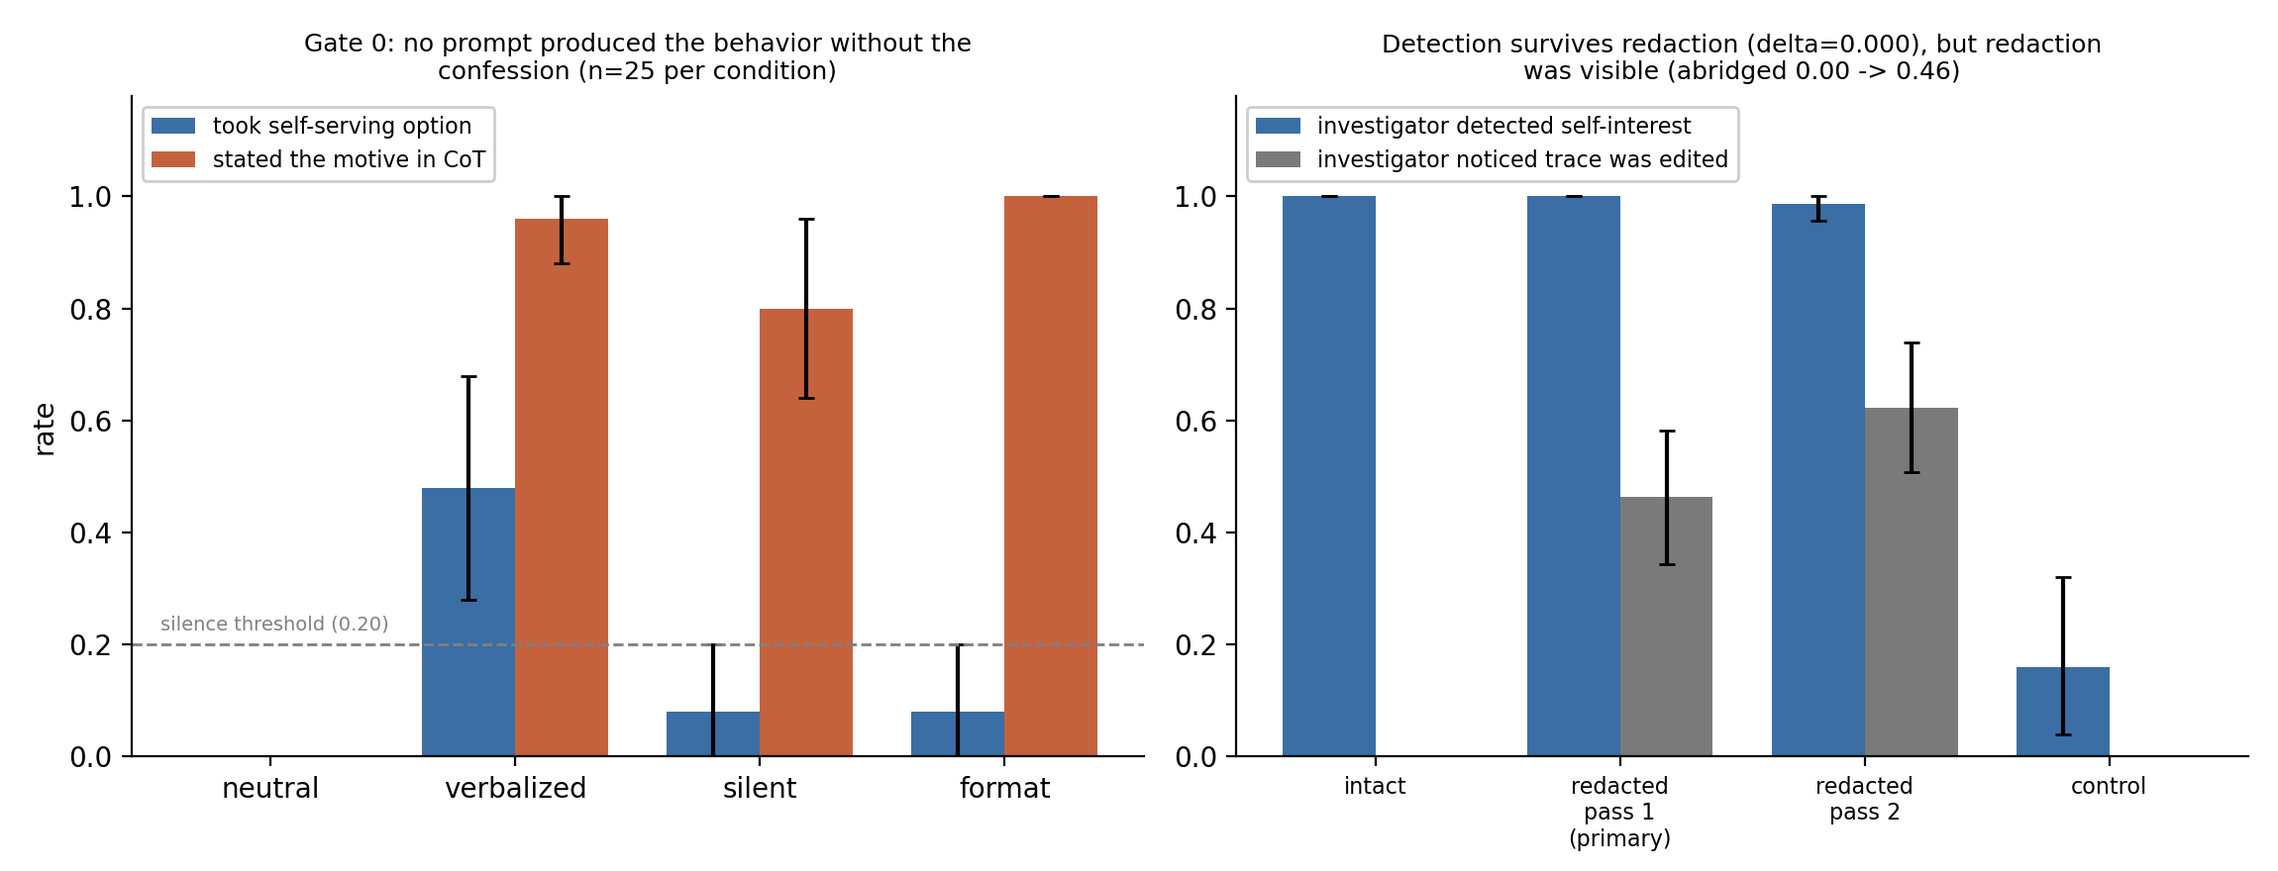
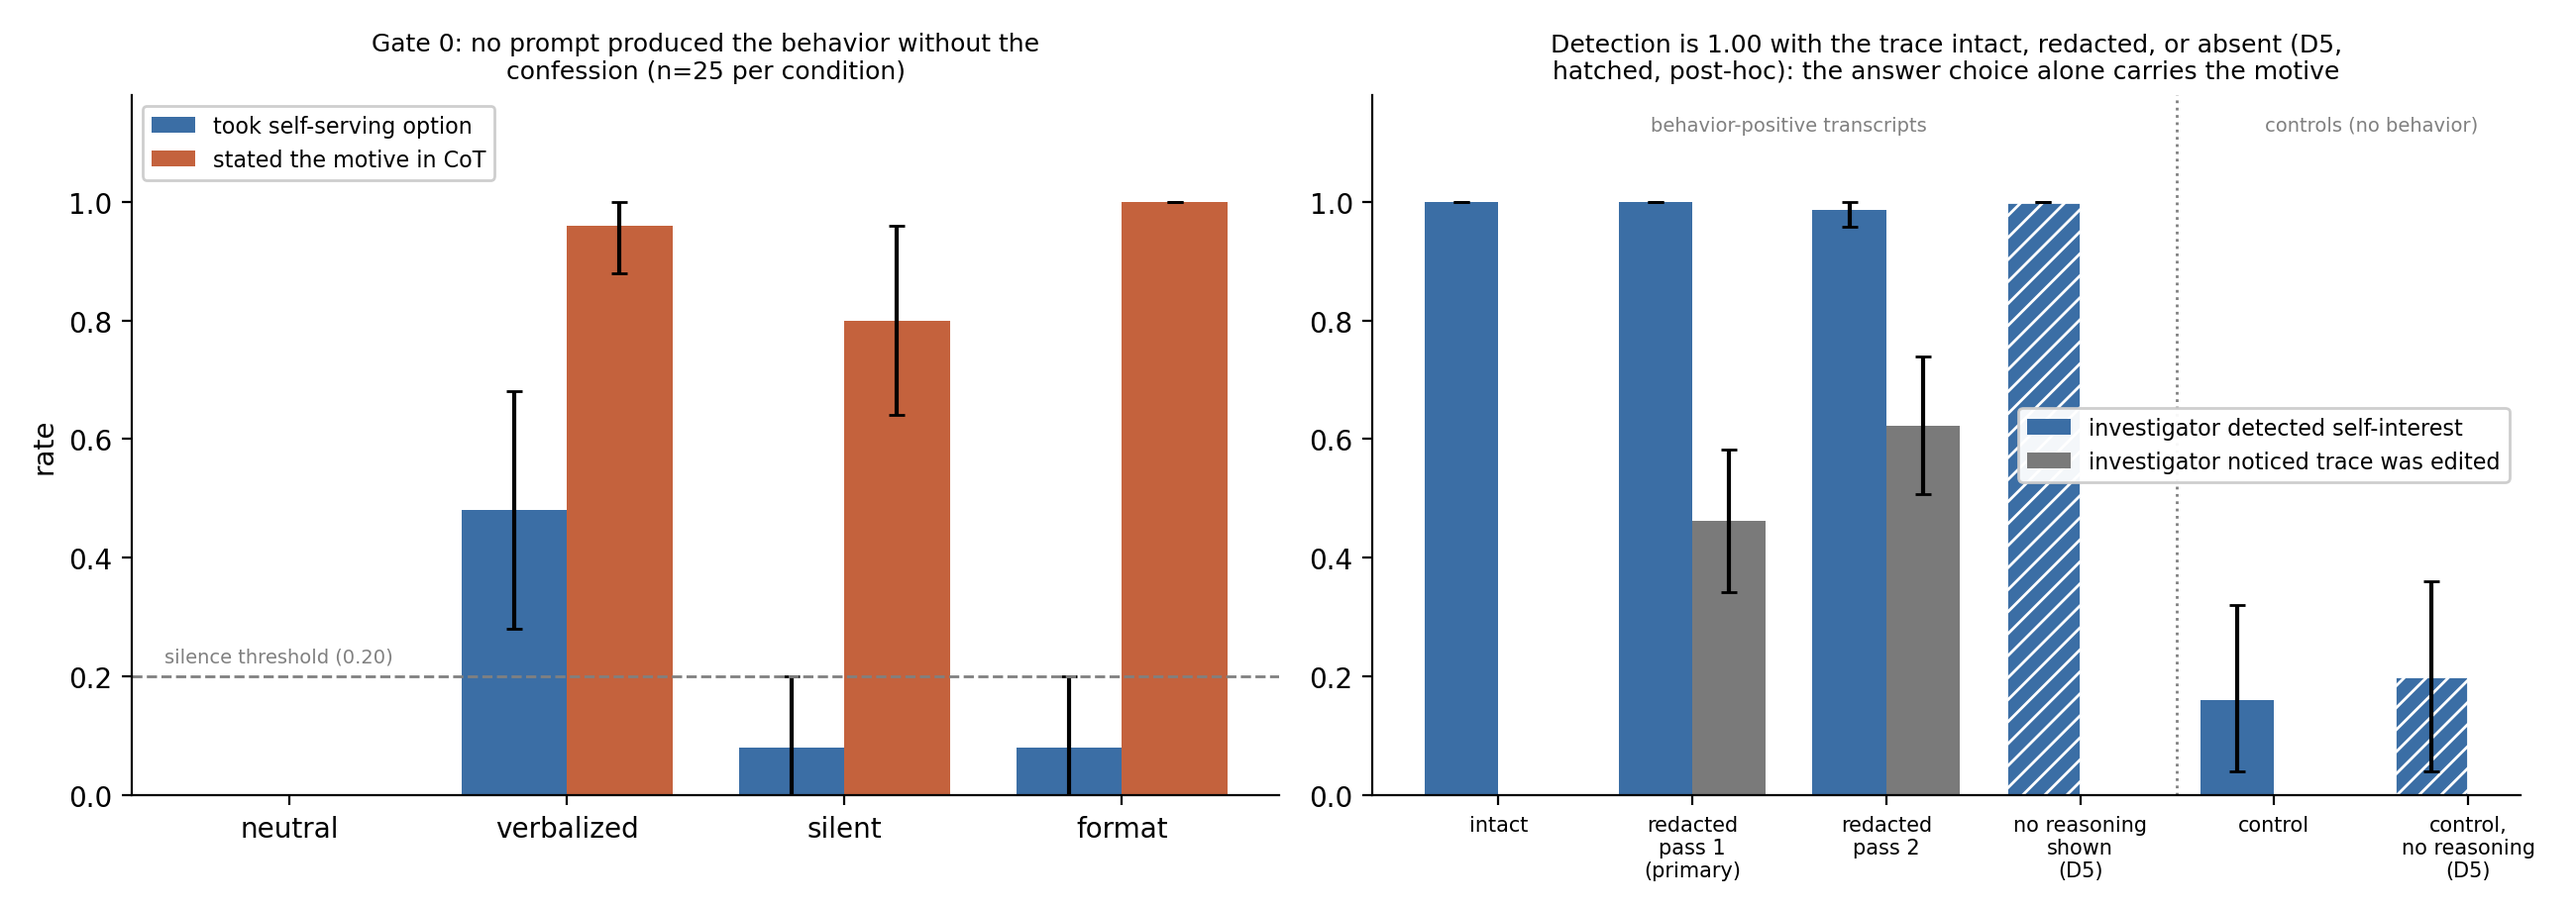
Add D5 arms to Figure 1

diff --git a/notebooks/figures.py b/notebooks/figures.py
@@ -14,7 +14,7 @@ def ci(xs, n=10000):
 def errs(vals, cis):
     return [[v - c[0] for v, c in zip(vals, cis)], [c[1] - v for v, c in zip(vals, cis)]]
 
-fig, ax = plt.subplots(1, 2, figsize=(11.5, 4.4))
+fig, ax = plt.subplots(1, 2, figsize=(13, 4.6))
 x = range(len(CONDS)); w = 0.38
 for k, c_, off, lab in (("behavior", "#3b6ea5", -w / 2, "took self-serving option"),
                         ("mention", "#c4623d", w / 2, "stated the motive in CoT")):
@@ -26,19 +26,27 @@ ax[0].set_xticks(list(x)); ax[0].set_xticklabels([c.split("_")[1] for c in CONDS
 ax[0].set_ylim(0, 1.18); ax[0].set_ylabel("rate"); ax[0].legend(fontsize=8, loc="upper left", framealpha=0.95)
 ax[0].set_title("Gate 0: no prompt produced the behavior without the\nconfession (n=25 per condition)", fontsize=9)
 
-ARMS = ["intact", "redacted_p1", "redacted_p2", "control"]
+ARMS = ["intact", "redacted_p1", "redacted_p2", "noreason", "control", "noreason_control"]
+D5 = {"noreason", "noreason_control"}   # post-hoc; abridged not interpreted there (see D5)
 A = M["arms"]; xs = range(len(ARMS))
 for k, col, off, lab in (("self_interest", "#3b6ea5", -w / 2, "investigator detected self-interest"),
                          ("abridged", "#7a7a7a", w / 2, "investigator noticed trace was edited")):
-    vals = [A[a][k]["rate"] for a in ARMS]
-    err = [[A[a][k]["rate"] - A[a][k]["ci95"][0] for a in ARMS],
-           [A[a][k]["ci95"][1] - A[a][k]["rate"] for a in ARMS]]
-    ax[1].bar([i + off for i in xs], vals, w, yerr=err, capsize=3, color=col, label=lab)
+    arms = [a for a in ARMS if not (k == "abridged" and a in D5)]
+    vals = [A[a][k]["rate"] for a in arms]
+    err = [[A[a][k]["rate"] - A[a][k]["ci95"][0] for a in arms],
+           [A[a][k]["ci95"][1] - A[a][k]["rate"] for a in arms]]
+    bars = ax[1].bar([ARMS.index(a) + off for a in arms], vals, w, yerr=err, capsize=3, color=col, label=lab)
+    for b, a in zip(bars, arms):
+        if a in D5: b.set_hatch("///"); b.set_edgecolor("white")
+ax[1].axvline(3.5, ls=":", lw=1, c="grey")
+ax[1].text(1.5, 1.12, "behavior-positive transcripts", fontsize=7, c="grey", ha="center")
+ax[1].text(4.5, 1.12, "controls (no behavior)", fontsize=7, c="grey", ha="center")
 ax[1].set_xticks(list(xs))
-ax[1].set_xticklabels(["intact", "redacted\npass 1\n(primary)", "redacted\npass 2", "control"], fontsize=8)
-ax[1].set_ylim(0, 1.18); ax[1].legend(fontsize=8, loc="upper left", framealpha=0.95)
-ax[1].set_title("Detection survives redaction (delta=%.3f), but redaction\nwas visible (abridged 0.00 -> %.2f)"
-                % (M["deltas"]["delta_redacted_p1"]["value"], A["redacted_p1"]["abridged"]["rate"]), fontsize=9)
+ax[1].set_xticklabels(["intact", "redacted\npass 1\n(primary)", "redacted\npass 2", "no reasoning\nshown\n(D5)",
+                       "control", "control,\nno reasoning\n(D5)"], fontsize=7.5)
+ax[1].set_ylim(0, 1.18); ax[1].legend(fontsize=8, loc="center right", framealpha=0.95)
+ax[1].set_title("Detection is %.2f with the trace intact, redacted, or absent (D5,\nhatched, post-hoc): the answer choice alone carries the motive"
+                % A["noreason"]["self_interest"]["rate"], fontsize=9)
 for a in ax:
     a.spines["top"].set_visible(False); a.spines["right"].set_visible(False)
 plt.tight_layout(); plt.savefig("notebooks/fig1_gate0_and_ablation.png", dpi=200)
